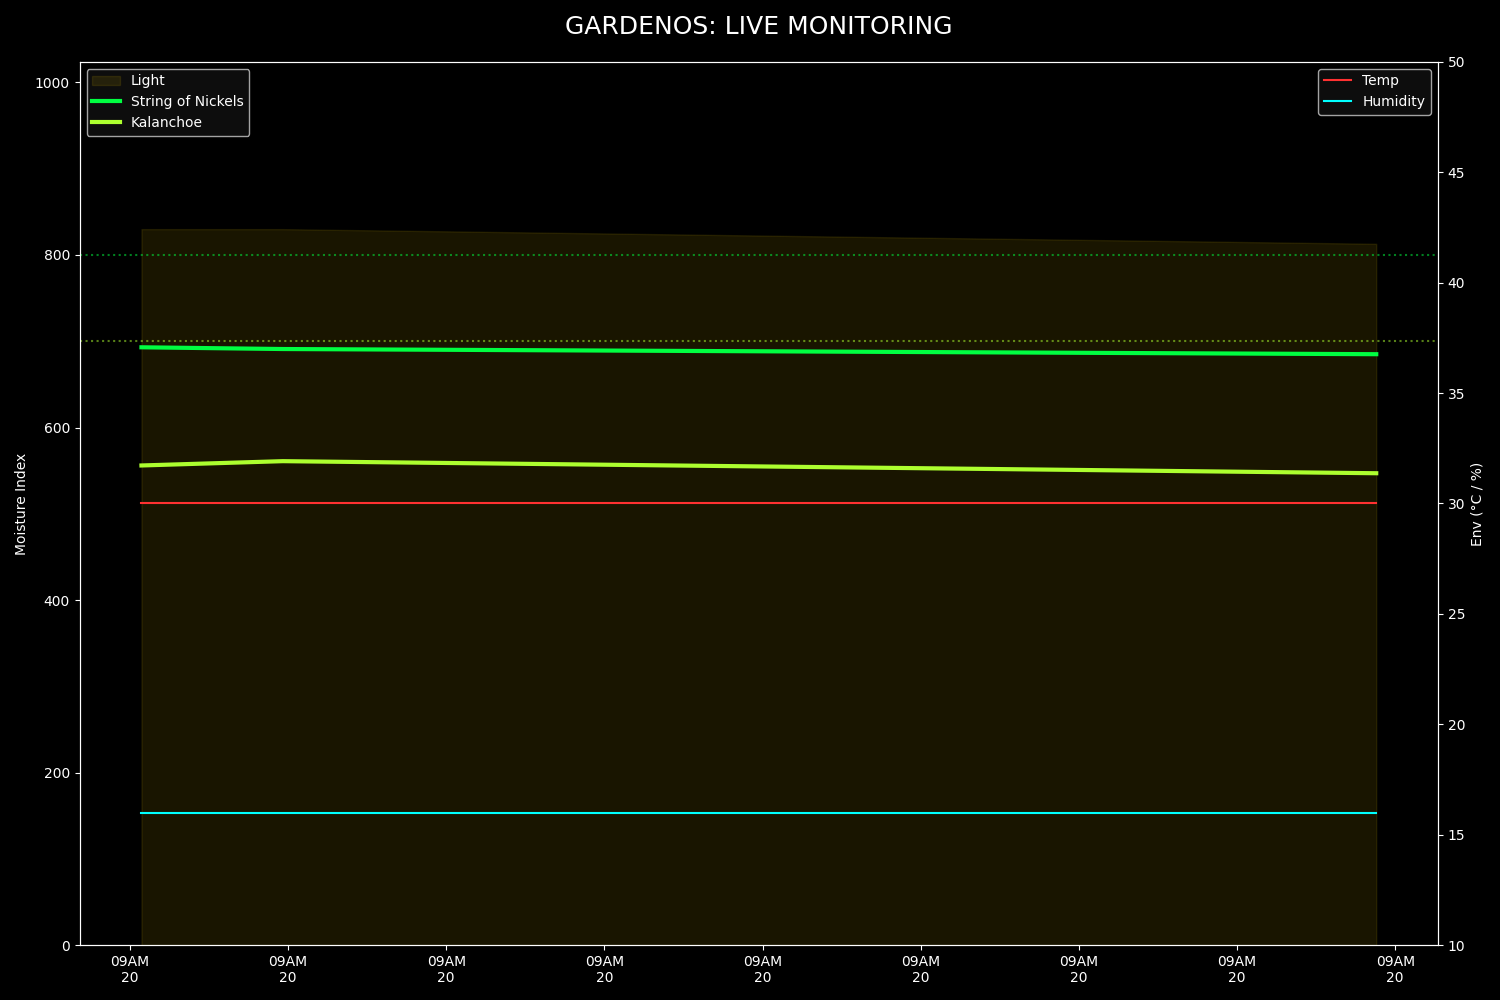
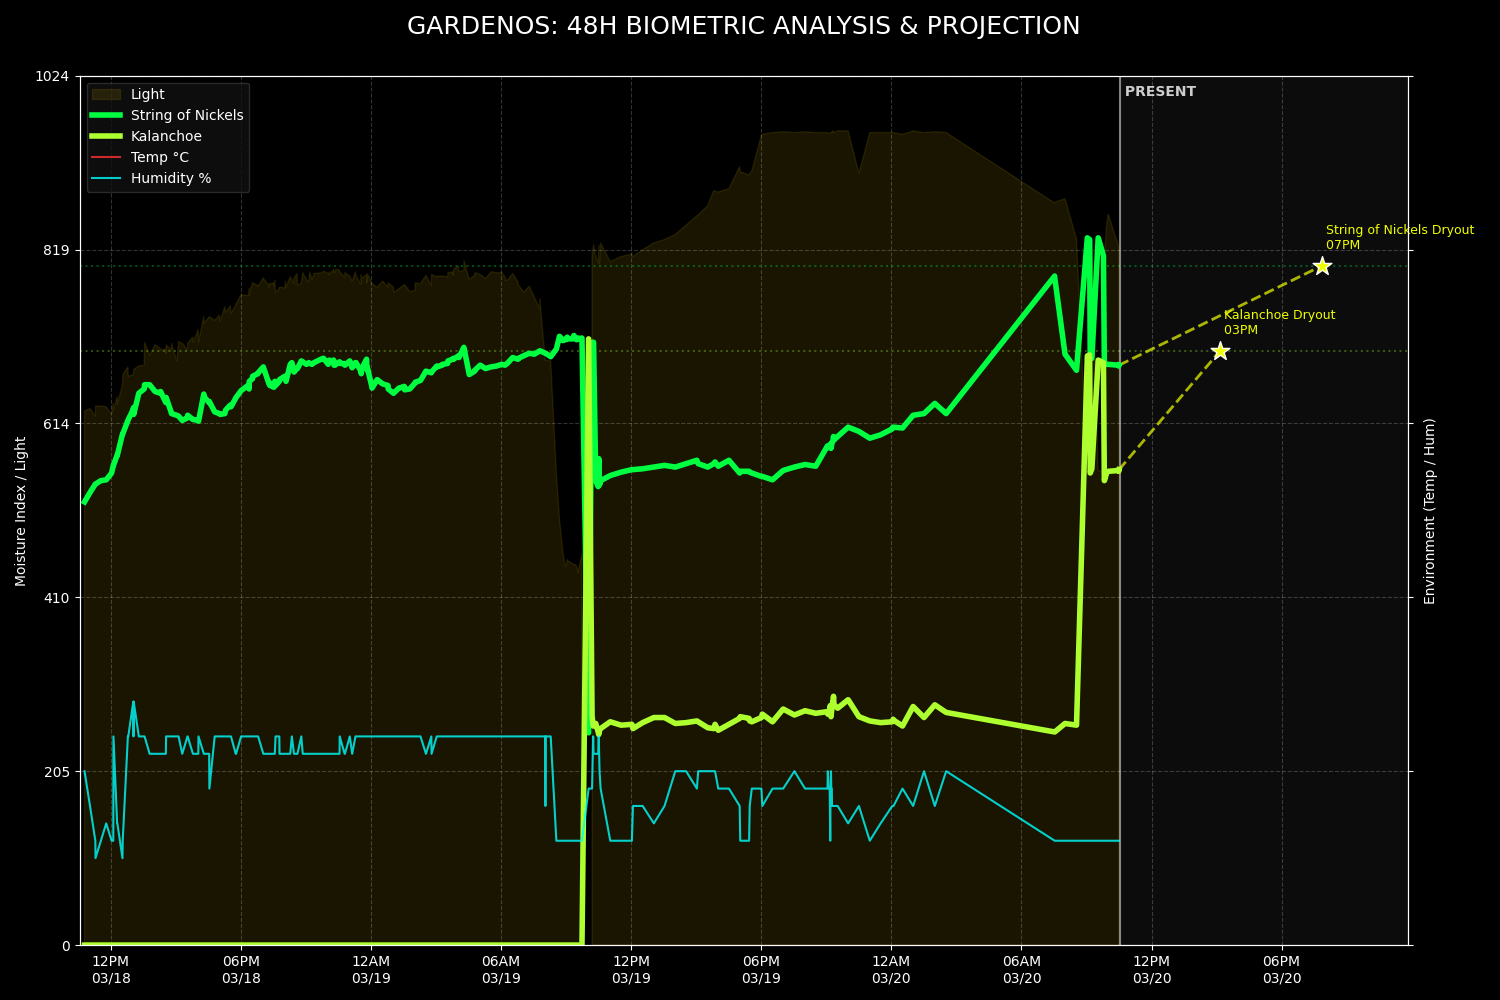
GardenOS 2.0: Advanced Analytics & AI Vision Handover

diff --git a/garden_engine.py b/garden_engine.py
@@ -115,45 +115,93 @@ def render_dashboard():
         df['timestamp'] = pd.to_datetime(df['timestamp'])
         df = df.sort_values('timestamp')
         
-        # View Window (Last 48h)
-        start_time = datetime.now() - timedelta(hours=48)
-        df = df[df['timestamp'] > start_time]
-        if len(df) < 2: return {"error": "Insufficient data"}
+        # Current time and view window: ALWAYS 4 days total
+        now = datetime.now()
+        start_view = now - timedelta(hours=48)
+        end_view = now + timedelta(hours=48) # Fixed 48h future
+        
+        # Filter for history
+        df_hist = df[df['timestamp'] > start_view].copy()
+        if len(df_hist) < 2: return {"error": "Insufficient data for historical view"}
 
         # Setup Plot
         plt.style.use('dark_background')
-        fig, ax1 = plt.subplots(figsize=(15, 10))
+        fig, ax1 = plt.subplots(figsize=(15, 10), dpi=100)
         fig.patch.set_facecolor('#000000'); ax1.set_facecolor('#000000')
         ax2 = ax1.twinx(); ax2.grid(False)
         
-        # Plot Environment
-        ax1.fill_between(df['timestamp'], 0, df['light'], color='#FFD700', alpha=0.1, label='Light')
-        ax2.plot(df['timestamp'], df['temp'], color='#FF3131', label='Temp', linewidth=1.5)
-        ax2.plot(df['timestamp'], df['hum'], color='#00FFFF', label='Humidity', linewidth=1.5)
+        # Colors
+        C_LIGHT = '#FFD700'; C_TEMP = '#FF3131'; C_HUM = '#00FFFF'; C_PROJ = '#F0FF00'
         
-        # Plot Plants
+        # 1. Environment
+        ax1.fill_between(df_hist['timestamp'], 0, df_hist['light'], color=C_LIGHT, alpha=0.1, label='Light')
+        ax2.plot(df_hist['timestamp'], df_hist['temp'], color=C_TEMP, label='Temp °C', linewidth=1.5, alpha=0.8)
+        ax2.plot(df_hist['timestamp'], df_hist['hum'], color=C_HUM, label='Humidity %', linewidth=1.5, alpha=0.8)
+        
+        # 2. Plants & Projections
         for plant in plants:
             pid = plant["id"]
-            if pid in df.columns:
-                # Plot line
-                ax1.plot(df['timestamp'], df[pid], color=plant["color"], linewidth=3, label=plant["name"])
+            if pid in df_hist.columns:
+                color = plant.get("color", "#00FF41")
+                ax1.plot(df_hist['timestamp'], df_hist[pid], color=color, linewidth=4, label=plant["name"], zorder=10)
                 
-                # Add Threshold Dashes
-                ax1.axhline(y=plant["dry_threshold"], color=plant["color"], linestyle=':', alpha=0.5)
+                thresh = plant["dry_threshold"]
+                ax1.axhline(y=thresh, color=color, linestyle=':', alpha=0.3)
+                
+                # Projection Logic
+                recent = df_hist[df_hist['timestamp'] > (now - timedelta(hours=24))].copy()
+                if len(recent) >= 3:
+                    import numpy as np
+                    x_reg = (recent['timestamp'] - recent['timestamp'].min()).dt.total_seconds().values
+                    y_reg = recent[pid].values
+                    slope, intercept = np.polyfit(x_reg, y_reg, 1)
+                    
+                    if slope > 0.00001: 
+                        seconds_to_cross = (thresh - y_reg[-1]) / slope
+                        if seconds_to_cross > 0:
+                            cross_time = now + timedelta(seconds=seconds_to_cross)
+                            # Only plot if within the 48h future window
+                            if cross_time < end_view:
+                                proj_time = [recent['timestamp'].max(), cross_time]
+                                proj_vals = [y_reg[-1], thresh]
+                                ax1.plot(proj_time, proj_vals, color=C_PROJ, linestyle='--', linewidth=2, alpha=0.7)
+                                ax1.scatter([cross_time], [thresh], color=C_PROJ, s=200, marker='*', edgecolors='white', zorder=20)
+                                ax1.text(cross_time, thresh + 20, f" {plant['name']} Dryout\n {cross_time.strftime('%m/%d %I%p')}", color=C_PROJ, fontsize=9)
 
-        # Formatting
-        ax1.set_ylim(0, 1024); ax1.set_ylabel("Moisture Index")
-        ax2.set_ylim(10, 50); ax2.set_ylabel("Env (°C / %)")
-        ax1.set_title("GARDENOS: LIVE MONITORING", fontsize=18, pad=20)
-        ax1.xaxis.set_major_formatter(mdates.DateFormatter('%I%p\n%d'))
-        ax1.legend(loc='upper left', facecolor='#111111')
-        ax2.legend(loc='upper right', facecolor='#111111')
+        # 3. Final Formatting
+        ax1.set_xlim(start_view, end_view)
+        ax1.set_ylim(0, 1024)
+        ax2.set_ylim(10, 60)
+        
+        # Align Grid
+        ax1.yaxis.set_major_locator(ticker.LinearLocator(6))
+        ax2.yaxis.set_major_locator(ticker.LinearLocator(6))
+        ax1.grid(True, which='major', linestyle='--', alpha=0.2)
+        
+        # Shade Future
+        ax1.axvspan(now, end_view, color='#ffffff', alpha=0.05)
+        ax1.axvline(x=now, color='#ffffff', linestyle='-', alpha=0.5)
+        ax1.text(now, 1000, " PRESENT", color='#ffffff', alpha=0.8, fontsize=10, fontweight='bold')
+
+        ax1.set_ylabel("Moisture Index / Light")
+        ax2.set_ylabel("Environment (Temp / Hum)")
+        ax1.set_title("GARDENOS: 4-DAY BIOMETRIC ANALYSIS (48H HISTORY + 48H PROJECTION)", fontsize=18, pad=30)
+        
+        ax1.xaxis.set_major_formatter(mdates.DateFormatter('%m/%d\n%I%p'))
+        plt.xticks(rotation=0)
+        
+        h1, l1 = ax1.get_legend_handles_labels()
+        h2, l2 = ax2.get_legend_handles_labels()
+        ax1.legend(h1+h2, l1+l2, loc='upper left', facecolor='#111111', frameon=True, edgecolor='#333333')
         
         plt.tight_layout()
+        fig.subplots_adjust(bottom=0.15, right=0.9) # Ensure labels fit
         plt.savefig(CHART_PATH, facecolor='#000000')
         plt.close()
         return {"chart_path": CHART_PATH}
-    except Exception as e: return {"error": str(e)}
+    except Exception as e: 
+        import traceback
+        return {"error": f"{str(e)}\n{traceback.format_exc()}"}
 
 if __name__ == "__main__":
     import argparse
